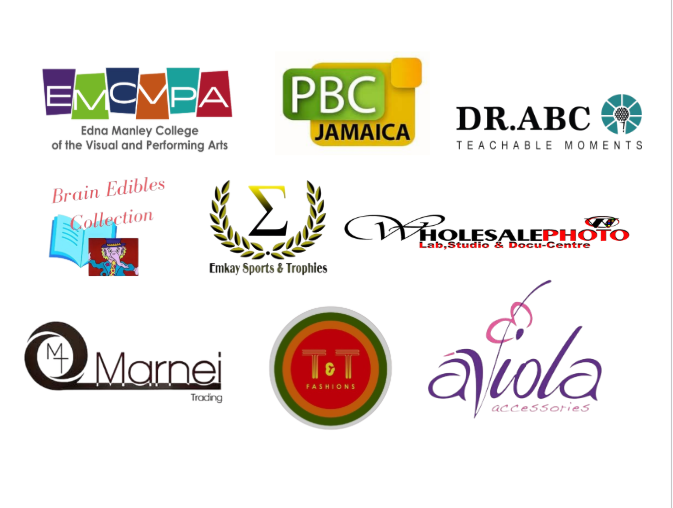
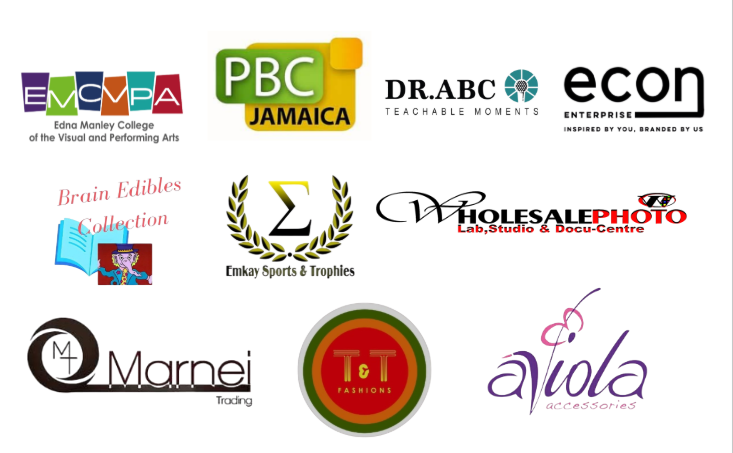
Update

diff --git a/src/pages/FestivalPage.js b/src/pages/FestivalPage.js
@@ -139,35 +139,70 @@ const FestivalPage = () => {
                 <h4>Join Us</h4>
                 <p>Whether you're a poet, poetry lover, or someone interested in the transformative power of words, Vibrations Poetry Festival is for you. We invite you to be a part of our inaugural event in 2025, where you'll experience the richness of Jamaican poetry, hear from inspiring poets, and witness firsthand how poetry can spark change.</p>
                 <p>Let Vibrations of the festival inspire you—because poetry is not just a form of art, it is a force for change.</p>
+              
               {/* Sponsors & Partners Section */}
-<div className="sponsors-section">
-  <h4>Our Sponsors & Partners</h4>
-  <p>We are proud to partner with organizations that share our commitment to celebrating Caribbean poetry and culture. Their support makes Vibrations Poetry Festival possible.</p>
-  
-  <div className="sponsors-image-container">
-    <img src={sponsorsImage} alt="Vibrations Poetry Festival Sponsors and Partners" className="sponsors-image" />
-  </div>
-  
-  <div className="sponsors-list">
-    <h5>Thank you to our valued sponsors:</h5>
-<ul>
-  <li><strong>PBC Jamaica</strong> - Supporting Caribbean media and cultural initiatives</li>
-  <li><strong>Marnei Trading</strong> - Committed to community development and arts</li>
-  <li><strong>EMCVP (Edna Manley College of the Visual and Performing Arts)</strong> - Our venue partner and champion of the arts</li>
-  <li><strong>Dr. ABC Teachable Moments</strong> - Promoting education and learning through creative expression</li>
-  <li><strong>Brain Edibles Collection</strong> - Founded by our co-founder Marguerite C. Anderson, supporting literary excellence</li>
-  <li><strong>Emkay Sports & Trophies</strong> - Providing awards, medals, and sporting supplies across Jamaica</li>
-  <li><strong>WholesalePhoto Lab Studio & Docu-Centre</strong> - Offering photo, print, and document services in Kingston</li>
-  <li><strong>T & T Fashions</strong> - Showcasing Jamaican fashion through locally designed apparel</li>
-  <li><strong>aviola accessories</strong> - Handcrafted eco-friendly accessories celebrating Caribbean culture</li>
-</ul>
+              <div className="sponsors-section">
+                <h4>Our Sponsors & Partners</h4>
+                <div className="sponsors-social-caption">
+                  <p><em>A heartfelt THANK YOU to our amazing sponsors- individuals as well as partnering organizations!</em></p>
+                  <p><em>Your support helps Vibration Poetry Festival celebrate creativity and build a stage where "Voices Rise and Metaphors Dance"</em></p>
+                  <p><em>We couldn't do it without you! 💛✨</em></p>
+                </div>
+                
+                <div className="sponsors-image-container">
+                  <img src={sponsorsImage} alt="Vibrations Poetry Festival Sponsors and Partners" className="sponsors-image" />
+                </div>
+                
+                <div className="sponsors-list">
+                  <h5>Thank you to our valued sponsors:</h5>
+                  <ul>
+                    <li><strong>PBC Jamaica</strong> - Supporting Caribbean media and cultural initiatives</li>
+                    <li><strong>Marnei Trading</strong> - Committed to community development and arts</li>
+                    <li><strong>EMCVP (Edna Manley College of the Visual and Performing Arts)</strong> - Our venue partner and champion of the arts</li>
+                    <li><strong>Dr. ABC Teachable Moments</strong> - Promoting education and learning through creative expression</li>
+                    <li><strong>ECON Enterprise Jamaica</strong> – Delivering high-quality promotional products with passion and pride for over 20 years</li>
+                    <li><strong>Brain Edibles Collection</strong> - Founded by our co-founder Marguerite C. Anderson, supporting literary excellence</li>
+                    <li><strong>Emkay Sports & Trophies</strong> - Providing awards, medals, and sporting supplies across Jamaica</li>
+                    <li><strong>WholesalePhoto Lab Studio & Docu-Centre</strong> - Offering photo, print, and document services in Kingston</li>
+                    <li><strong>T & T Fashions</strong> - Showcasing Jamaican fashion through locally designed apparel</li>
+                    <li><strong>aviola accessories</strong> - Handcrafted eco-friendly accessories celebrating Caribbean culture</li>
+                  </ul>
+                </div>
 
-    
-    <p className="partnership-note">
-      <em>Interested in becoming a sponsor or partner? Contact us to learn about opportunities to support Caribbean poetry and cultural arts.</em>
-    </p>
-  </div>
-</div>
+                {/* Individual Contributors Section */}
+                <div className="contributors-section">
+                  <h5>Individual Contributors</h5>
+                  <p>We extend our heartfelt gratitude to these individual contributors who have supported Vibrations Poetry Festival:</p>
+                  <div className="contributors-grid">
+                    <ul className="contributors-list">
+                      <li>Sheila Bryan</li>
+                      <li>Dr. Andrew Campbell</li>
+                      <li>Dr. Derwin Campbell</li>
+                      <li>Janice Clarke</li>
+                      <li>Ichelle Cole-Creed</li>
+                      <li>Shelly-Ann Dyer</li>
+                      <li>Lorraina Forrest</li>
+                      <li>Dr. Juanita Gilliam</li>
+                      <li>Sheila Hall</li>
+                    </ul>
+                    <ul className="contributors-list">
+                      <li>Dr. Denise Jarrett</li>
+                      <li>Tanitia Munroe</li>
+                      <li>Christine Reynolds</li>
+                      <li>Bev Edwards-Stewart</li>
+                      <li>Dr. Pauline Sawyer</li>
+                      <li>Dr. Maygon Smythe-Thompson</li>
+                      <li>Audrey Thomas</li>
+                      <li>Peaches Joy Williams</li>
+                      <li>Luke Williams</li>
+                    </ul>
+                  </div>
+                </div>
+                
+                <p className="partnership-note">
+                  <em>Interested in becoming a sponsor or partner? Contact us to learn about opportunities to support Caribbean poetry and cultural arts.</em>
+                </p>
+              </div>
               </div>
               
               {/* Presenters Tab - Keeping this unchanged as requested */}
